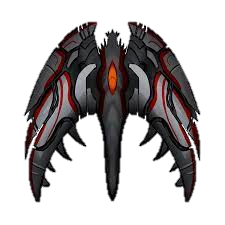
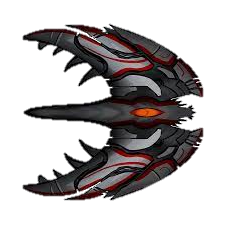
Moves, needs firing mechanics, shields, and powerups

diff --git a/main.py b/main.py
@@ -14,7 +14,7 @@ class Dogfighter:
         pygame.init()
         self.settings = Settings()
 
-        self.screen = pygame.FULLSCREEN
+        self.screen = pygame.display.set_mode((1200, 600))
         self.settings.screen_width = self.screen.get_rect().width
         self.settings.screen_height = self.screen.get_rect().height
         pygame.display.set_caption("Alien Invasion")
@@ -27,7 +27,8 @@ class Dogfighter:
         """Start the main loop for the game."""
         while True:
             self._check_events()
-            self.ship.update()
+            self.ship_one.update()
+            self.ship_two.update()
             self._update_bullets()
             self._update_screen()
 
@@ -47,19 +48,35 @@ class Dogfighter:
             self.ship_two.turning_right = True
         elif event.key == pygame.K_LEFT:
             self.ship_two.turning_left = True
+        elif event.key == pygame.K_UP:
+            self.ship_two.accel = True
         # Need help adding the acceleration for ship two
         # Need help creating the keydown events for ship one using WAD keys
+        if event.key == pygame.K_d:
+            self.ship_one.turning_right = True
+        elif event.key == pygame.K_a:
+            self.ship_one.turning_left = True
+        elif event.key == pygame.K_w:
+            self.ship_one.accel = True
         elif event.key == pygame.K_q:
             sys.exit()
-        elif event.key == pygame.:  # Need to split the fire mechanic
+        elif event.key == pygame.K_DOWN:  # Need to split the fire mechanic
             self._fire_bullet()
 
     def _check_keyup_events(self, event):
         """Respond to key releases."""
         if event.key == pygame.K_RIGHT:
-            self.ship_two.moving_right = False
+            self.ship_two.turning_right = False
         elif event.key == pygame.K_LEFT:
-            self.ship_two.moving_left = False
+            self.ship_two.turning_left = False
+        elif event.key == pygame.K_UP:
+            self.ship_two.accel = False
+        if event.key == pygame.K_d:
+            self.ship_one.turning_right = False
+        elif event.key == pygame.K_a:
+            self.ship_one.turning_left = False
+        elif event.key == pygame.K_w:
+            self.ship_one.accel = False
         # Need help adding the stop acceleration for ship two
         # Need help creating the keyup events for ship one using WAD keys
 
@@ -78,6 +95,12 @@ class Dogfighter:
         # Get rid of bullets that have disappeared.
         for bullet in self.bullets.copy():
             if bullet.rect.y <= 0:  # Need to change this so it removes at any edge
+                self.bullets.remove(bullet)
+            if bullet.rect.x <= 0:  # Need to change this so it removes at any edge
+                self.bullets.remove(bullet)
+            if bullet.rect.y >= 800:  # Need to change this so it removes at any edge
+                self.bullets.remove(bullet)
+            if bullet.rect.x >= 1200:  # Need to change this so it removes at any edge
                 self.bullets.remove(bullet)
 
     def _update_screen(self):

diff --git a/Ship_one.py b/Ship_one.py
@@ -1,5 +1,6 @@
 import pygame
-
+import math
+import time
 
 class ship_one:
     """A class to manage the ship."""
@@ -12,23 +13,54 @@ class ship_one:
 
         # Load the ship image and get its rect.
         self.image = pygame.image.load('images/ship1.png')
+        self.image = pygame.transform.scale(self.image, (40, 40))
         self.rect = self.image.get_rect()
-
         # Start each new ship at the bottom center of the screen.
         self.rect.midleft = self.screen_rect.midleft
 
         # Store a decimal value for the ship's horizontal position.
         self.x = float(self.rect.x)
+        self.y = float(self.rect.y)
+        self.i = 0
+
 
         # Movement flags
-        self.moving_right = False
-        self.moving_left = False
+        self.turning_right = False
+        self.turning_left = False
+        self.accel = False
 
     def update(self):
         """Update the ship's position based on movement flags."""
-        # Need to write the movement and turn codes here (look at astroid game for tips)
+        # Need to write the movement and turn codes here (similar control scheme to alien game)
+
+        if self.turning_right:
+            self.image = pygame.transform.rotate(self.image, -90)
+            self.i += 1
+            time.sleep(.35)
+
+        if self.turning_left:
+            self.image = pygame.transform.rotate(self.image, 90)
+            self.i -= 1
+            time.sleep(.35)
+
+
+
+
+        if self.accel:
+            if self.i % 4 == 0:
+                self.x += self.settings.ship_speed
+            elif self.i % 4 == 2:
+                self.x -= self.settings.ship_speed
+            elif self.i % 4 == 1:
+                self.y += self.settings.ship_speed
+            elif self.i % 4 == 3:
+                self.y -= self.settings.ship_speed
+
+
         # accelerates forwards (no backwards), and turns by degrees
         self.rect.x = self.x
+        self.rect.y = self.y
+
 
     def blitme(self):
         """Draw the ship at its current location."""

diff --git a/Ship_two.py b/Ship_two.py
@@ -1,5 +1,6 @@
 import pygame
-
+import math
+from time import sleep
 
 class ship_two:
     """A class to manage the ship."""
@@ -12,23 +13,46 @@ class ship_two:
 
         # Load the ship image and get its rect.
         self.image = pygame.image.load('images/ship2.png')
+        self.image = pygame.transform.scale(self.image, (80, 80))
         self.rect = self.image.get_rect()
-
+        self.angle = 90
         # Start each new ship at the bottom center of the screen.
         self.rect.midright = self.screen_rect.midright
 
         # Store a decimal value for the ship's horizontal position.
         self.x = float(self.rect.x)
+        self.y = float(self.rect.y)
 
         # Movement flags
-        self.moving_right = False
-        self.moving_left = False
+        self.turning_right = False
+        self.turning_left = False
+        self.accel = False
+        self.i = 2
 
     def update(self):
         """Update the ship's position based on movement flags."""
-        # Need to write the movement and turn codes here (look at astroid game for tips)
-        # Accelerates forwards (no back), and turns by degrees
+
+        if self.turning_right:
+            self.image = pygame.transform.rotate(self.image, -90)
+            self.i += 1
+            sleep(.35)
+
+        if self.turning_left:
+            self.image = pygame.transform.rotate(self.image, 90)
+            self.i -= 1
+            sleep(.35)
+
+        if self.accel:
+            if self.i % 4 == 0:
+                self.x += self.settings.ship_speed
+            elif self.i % 4 == 2:
+                self.x -= self.settings.ship_speed
+            elif self.i % 4 == 1:
+                self.y += self.settings.ship_speed
+            elif self.i % 4 == 3:
+                self.y -= self.settings.ship_speed
         self.rect.x = self.x
+        self.rect.y = self.y
 
     def blitme(self):
         """Draw the ship at its current location."""
